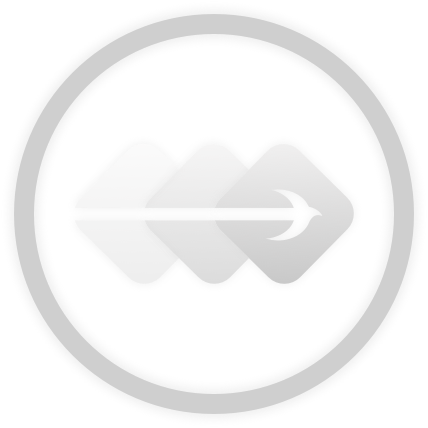
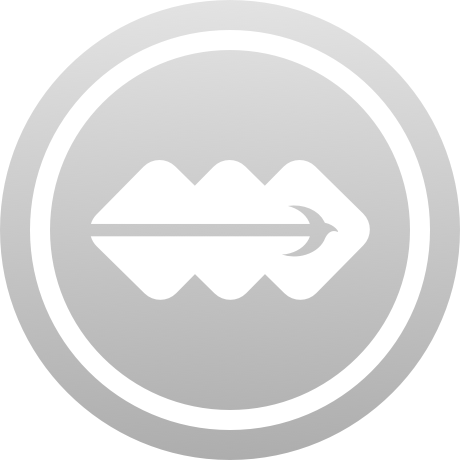
Added Platinum sponsor level / hover free spot highlights it now

diff --git a/Public/App/YearX/styles/Pages/sponsors.css b/Public/App/YearX/styles/Pages/sponsors.css
@@ -43,6 +43,25 @@
   margin: 0;
 }
 
+/* Platinum */
+.sponsors .sponsor-list .f-platinum {
+    background: linear-gradient(to right, #c3c3c3, #969595) no-repeat;
+    -webkit-background-clip: text;
+    -webkit-text-fill-color: transparent;
+}
+.sponsors .sponsor-list .platinum .sponsor {
+    width: 210px;
+    height: 210px;
+}
+.sponsors .sponsor-list .platinum .sponsor .image {
+    width: 160px;
+    height: 160px;
+}
+.sponsors .sponsor-list .platinum .description {
+    height: 50px;
+}
+
+
 /* Gold */
 .sponsors .sponsor-list .f-gold {
     background: linear-gradient(to right, #FFCC40, #FD9908) no-repeat;
@@ -50,34 +69,33 @@
     -webkit-text-fill-color: transparent;
 }
 .sponsors .sponsor-list .gold .sponsor {
-    width: 210px;
-    height: 210px;
+    width: 180px;
+    height: 180px;
 }
 .sponsors .sponsor-list .gold .sponsor .image {
-    width: 160px;
-    height: 160px;
+    width: 130px;
+    height: 130px;
 }
-.sponsors .sponsor-list .sponsor .description {
-    height: 50px;
+.sponsors .sponsor-list .gold h4 {
+    font-size: 20px;
 }
-
 
 /* Silver */
 .sponsors .sponsor-list .f-silver {
-    background: linear-gradient(to right, #c3c3c3, #969595) no-repeat;
+    background: linear-gradient(to right, #d2cfcf, #bfbfbf) no-repeat;
     -webkit-background-clip: text;
     -webkit-text-fill-color: transparent;
 }
 .sponsors .sponsor-list .silver .sponsor {
-    width: 180px;
-    height: 180px;
+    width: 160px;
+    height: 160px;
 }
 .sponsors .sponsor-list .silver .sponsor .image {
-    width: 130px;
-    height: 130px;
+    width: 110px;
+    height: 110px;
 }
 .sponsors .sponsor-list .silver h4 {
-    font-size: 20px;
+    font-size: 18px;
 }
 
 /* Bronze */
@@ -87,34 +105,37 @@
     -webkit-text-fill-color: transparent;
 }
 .sponsors .sponsor-list .bronze .sponsor {
-    width: 160px;
-    height: 160px;
+    width: 140px;
+    height: 140px;
 }
 .sponsors .sponsor-list .bronze .sponsor .image {
-    width: 110px;
-    height: 110px;
+    width: 100px;
+    height: 100px;
+}
+.sponsors .sponsor-list .bronze .description {
+    height: 40px;
 }
 .sponsors .sponsor-list .bronze h4 {
-    font-size: 18px;
+    font-size: 16px;
 }
 
 /* Custom */
 .sponsors .sponsor-list .f-custom {
-    background: linear-gradient(to right, #bfd1da, #4a4e52) no-repeat;
+    background: linear-gradient(to right, #77919e, #4a4e52) no-repeat;
     -webkit-background-clip: text;
     -webkit-text-fill-color: transparent;
 }
 .sponsors .sponsor-list .custom .sponsor {
-    width: 140px;
-    height: 140px;
+    width: 120px;
+    height: 120px;
 }
 .sponsors .sponsor-list .custom .sponsor .image {
-    width: 100px;
-    height: 100px;
+    width: 90px;
+    height: 90px;
 }
 .sponsors .sponsor-list .custom .description {
-    height: 40px;
+    height: 30px;
 }
 .sponsors .sponsor-list .custom h4 {
-    font-size: 16px;
+    font-size: 14px;
 }

diff --git a/Public/App/YearX/styles/layout.css b/Public/App/YearX/styles/layout.css
@@ -103,6 +103,10 @@ body {
 
 /* MARK: - Opacity */
 
-.opacity-25 {
-    opacity: 0.25
+.opacity-15 {
+    opacity: 0.15;
+    transition: opacity .2s ease-in-out !important;
+}
+.opacity-15:hover {
+    opacity: 1
 }
